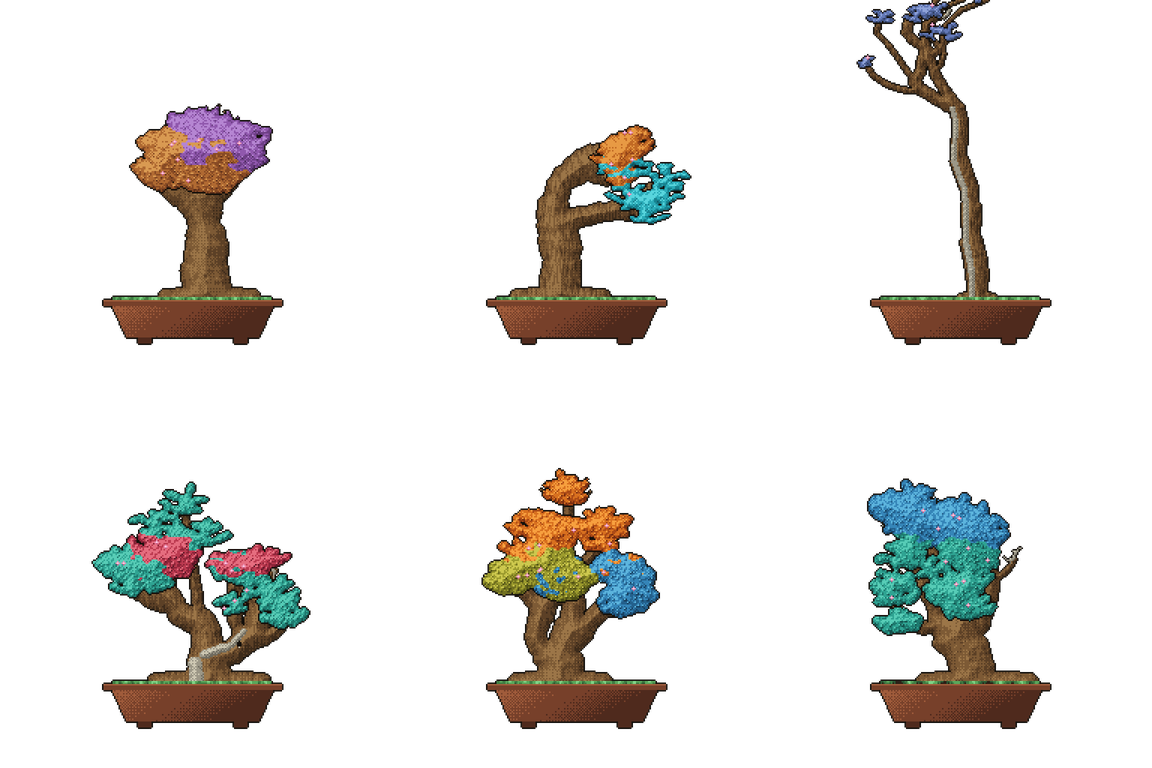
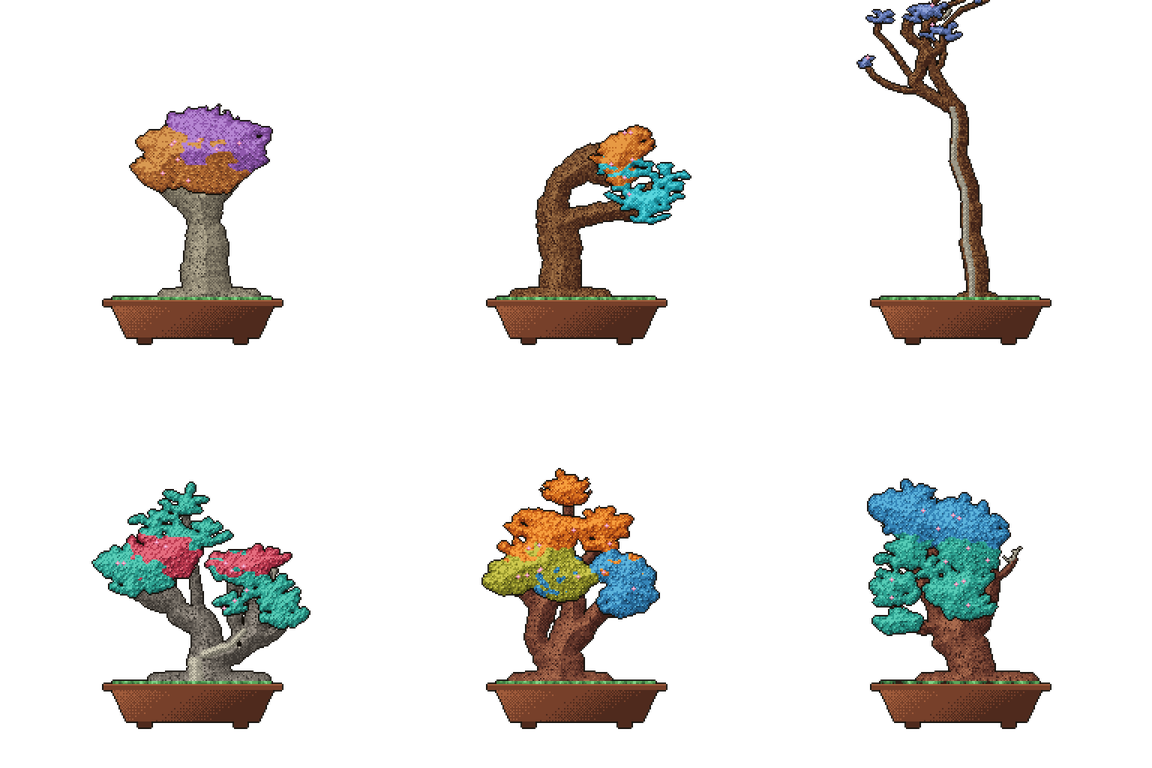
feat: species bark colors + domain-warped ridged bark texture
Trunk color now belongs to the species: red-brown plated pine, smooth
silver-gray maple, mahogany cherry, fibrous gray juniper, pale tan elm
(palette slots 2-5 are patched per species at build time).

Bark texture upgraded from plain striation noise to domain-warped
ridged noise — (1-|n|)^2 over warped coordinates — with dark fissures
carved along ridge crests, kept clear of the keyline. Rough species
(pine, juniper) ridge and crack harder than smooth ones (elm, maple).

Claude-Session: https://claude.ai/code/session_016wzfiLTiSENdkKTfsVTFZx

diff --git a/src/palette.ts b/src/palette.ts
@@ -87,6 +87,15 @@ export const SPECIES: Record<SpeciesId, Species> = {
   elm: { padFlatten: 1.2, padThreshold: 0.52, stamp: [[0, 0], [0, 1]], barkAmp: 0.14, droop: 0.04 },
 };
 
+/** Bark color ramps (palette slots 2-5) per species, dark -> light. */
+const BARK_RAMPS: Record<SpeciesId, [string, string, string, string]> = {
+  pine: ['#402318', '#5f3a24', '#7f5433', '#9f7146'],    // red-brown plates
+  maple: ['#3f3a35', '#5c564f', '#7b746b', '#9c948a'],   // smooth silver-gray
+  cherry: ['#3f201a', '#61352a', '#844d39', '#a86a4d'],  // mahogany
+  juniper: ['#38352f', '#555148', '#736e62', '#928d7f'], // fibrous gray
+  elm: ['#4a443a', '#6b6455', '#8e8672', '#b1a890'],     // pale tan-gray
+};
+
 const BASE: Record<number, string> = {
   1: '#14100b',
   2: '#3d2b1a', 3: '#5c4026', 4: '#7d5a35', 5: '#9c7648',
@@ -102,10 +111,11 @@ function hex(rgb: Uint8Array, index: number, color: string): void {
   rgb[index * 3 + 2] = parseInt(color.slice(5, 7), 16);
 }
 
-/** Build the 32-entry RGB palette with one leaf ramp per epoch. */
-export function buildPalette(epochLangs: [string, string, string]): Uint8Array {
+/** Build the 32-entry RGB palette: species bark + one leaf ramp per epoch. */
+export function buildPalette(epochLangs: [string, string, string], species: SpeciesId = 'maple'): Uint8Array {
   const rgb = new Uint8Array(PALETTE_SIZE * 3);
   for (const [idx, color] of Object.entries(BASE)) hex(rgb, Number(idx), color);
+  BARK_RAMPS[species].forEach((color, i) => hex(rgb, TRUNK[i], color));
   for (let e = 0; e < 3; e++) {
     const ramp = rampFor(epochLangs[e]);
     for (let i = 0; i < 4; i++) hex(rgb, LEAF_E[e][i], ramp[i]);

diff --git a/dist/src/palette.js b/dist/src/palette.js
@@ -69,6 +69,14 @@ exports.SPECIES = {
     juniper: { padFlatten: 1.35, padThreshold: 0.6, stamp: [[0, 0]], barkAmp: 0.28, droop: 0.05 },
     elm: { padFlatten: 1.2, padThreshold: 0.52, stamp: [[0, 0], [0, 1]], barkAmp: 0.14, droop: 0.04 },
 };
+/** Bark color ramps (palette slots 2-5) per species, dark -> light. */
+const BARK_RAMPS = {
+    pine: ['#402318', '#5f3a24', '#7f5433', '#9f7146'], // red-brown plates
+    maple: ['#3f3a35', '#5c564f', '#7b746b', '#9c948a'], // smooth silver-gray
+    cherry: ['#3f201a', '#61352a', '#844d39', '#a86a4d'], // mahogany
+    juniper: ['#38352f', '#555148', '#736e62', '#928d7f'], // fibrous gray
+    elm: ['#4a443a', '#6b6455', '#8e8672', '#b1a890'], // pale tan-gray
+};
 const BASE = {
     1: '#14100b',
     2: '#3d2b1a', 3: '#5c4026', 4: '#7d5a35', 5: '#9c7648',
@@ -82,11 +90,12 @@ function hex(rgb, index, color) {
     rgb[index * 3 + 1] = parseInt(color.slice(3, 5), 16);
     rgb[index * 3 + 2] = parseInt(color.slice(5, 7), 16);
 }
-/** Build the 32-entry RGB palette with one leaf ramp per epoch. */
-function buildPalette(epochLangs) {
+/** Build the 32-entry RGB palette: species bark + one leaf ramp per epoch. */
+function buildPalette(epochLangs, species = 'maple') {
     const rgb = new Uint8Array(exports.PALETTE_SIZE * 3);
     for (const [idx, color] of Object.entries(BASE))
         hex(rgb, Number(idx), color);
+    BARK_RAMPS[species].forEach((color, i) => hex(rgb, exports.TRUNK[i], color));
     for (let e = 0; e < 3; e++) {
         const ramp = rampFor(epochLangs[e]);
         for (let i = 0; i < 4; i++)

diff --git a/src/shade.ts b/src/shade.ts
@@ -1,4 +1,4 @@
-import { Noise2 } from './noise';
+import { Noise2, BarkFn } from './noise';
 
 /** 4x4 Bayer matrix, normalized to -0.5..~0.5 for ordered dithering. */
 const BAYER4 = [
@@ -75,11 +75,13 @@ export interface ShadeOpts {
   depthMix?: number;
   /** How fast depth saturates: lower = the gradient reaches deeper (wide trunks). */
   depthScale?: number;
-  /** Extra per-pixel tone noise (bark/leaf texture). */
+  /** Extra per-pixel tone noise (leaf texture). */
   noise?: Noise2;
   noiseAmp?: number;
   noiseScaleX?: number;
   noiseScaleY?: number;
+  /** Bark texture: warped ridged noise with dark fissures along ridge crests. */
+  bark?: { fn: BarkFn; amp: number; scaleX: number; scaleY: number; crack: number };
 }
 
 /**
@@ -114,6 +116,12 @@ export function makeShader(
     let t = (1 - depthMix) * lambert + depthMix * depth;
     if (opts.noise && nAmp > 0) {
       t += opts.noise(x * (opts.noiseScaleX ?? 0.3), y * (opts.noiseScaleY ?? 0.3)) * nAmp;
+    }
+    if (opts.bark) {
+      const b = opts.bark.fn(x, y, opts.bark.scaleX, opts.bark.scaleY);
+      // deep fissures along ridge crests, but not right at the keyline edge
+      if (b > opts.bark.crack && dist[i] > 1.6) return 0;
+      t += (b - 0.45) * opts.bark.amp;
     }
     const v = t * (rampLen - 1) + bayer(x, y) * 0.9;
     return Math.max(0, Math.min(rampLen - 1, Math.round(v)));

diff --git a/dist/src/noise.js b/dist/src/noise.js
@@ -1,5 +1,6 @@
 "use strict";
 Object.defineProperty(exports, "__esModule", { value: true });
+exports.makeBark = makeBark;
 exports.makeSimplex = makeSimplex;
 const GRAD = [
     [1, 1], [-1, 1], [1, -1], [-1, -1],
@@ -8,6 +9,21 @@ const GRAD = [
 ];
 const F2 = 0.5 * (Math.sqrt(3) - 1);
 const G2 = (3 - Math.sqrt(3)) / 6;
+/**
+ * Bark texture: domain-warped ridged noise — the classic recipe for wood.
+ * A low-frequency warp bends the ridge lines organically; ridging
+ * (1 - |n|)^2 turns smooth noise into sharp bark plates and fissures.
+ * Returns 0..1 (high = ridge crest).
+ */
+function makeBark(noise) {
+    return (x, y, sx, sy) => {
+        const wx = noise(x * sx * 0.45 + 11.3, y * sy * 0.45 - 7.1);
+        const wy = noise(x * sx * 0.45 - 3.7, y * sy * 0.45 + 9.2);
+        const n = noise(x * sx + wx * 2.2, y * sy + wy * 2.2);
+        const ridge = 1 - Math.abs(n);
+        return ridge * ridge;
+    };
+}
 /** 2D simplex noise (Gustavson) with a permutation table shuffled by the seeded PRNG. Output in [-1, 1]. */
 function makeSimplex(rng) {
     const p = new Uint8Array(256);

diff --git a/src/noise.ts b/src/noise.ts
@@ -11,6 +11,24 @@ const G2 = (3 - Math.sqrt(3)) / 6;
 
 export type Noise2 = (x: number, y: number) => number;
 
+export type BarkFn = (x: number, y: number, sx: number, sy: number) => number;
+
+/**
+ * Bark texture: domain-warped ridged noise — the classic recipe for wood.
+ * A low-frequency warp bends the ridge lines organically; ridging
+ * (1 - |n|)^2 turns smooth noise into sharp bark plates and fissures.
+ * Returns 0..1 (high = ridge crest).
+ */
+export function makeBark(noise: Noise2): BarkFn {
+  return (x, y, sx, sy) => {
+    const wx = noise(x * sx * 0.45 + 11.3, y * sy * 0.45 - 7.1);
+    const wy = noise(x * sx * 0.45 - 3.7, y * sy * 0.45 + 9.2);
+    const n = noise(x * sx + wx * 2.2, y * sy + wy * 2.2);
+    const ridge = 1 - Math.abs(n);
+    return ridge * ridge;
+  };
+}
+
 /** 2D simplex noise (Gustavson) with a permutation table shuffled by the seeded PRNG. Output in [-1, 1]. */
 export function makeSimplex(rng: Rng): Noise2 {
   const p = new Uint8Array(256);

diff --git a/dist/src/render.js b/dist/src/render.js
@@ -76,7 +76,14 @@ function renderFrame(dna, skel, opts = {}) {
         (0, raster_1.fillCapsule)(aliveMask, skeleton_1.W, skeleton_1.H, skel.baseX, skel.groundY - 4, skel.baseX + side * spread, skel.groundY - 2, dna.baseRadius * 0.36, 1);
     }
     const shadeAlive = (0, shade_1.makeShader)(aliveMask, skeleton_1.W, skeleton_1.H, palette_1.TRUNK.length, {
-        depthMix: 0.38, depthScale: 0.13, noise, noiseAmp: species.barkAmp, noiseScaleX: 0.55, noiseScaleY: 0.09,
+        depthMix: 0.38, depthScale: 0.13,
+        bark: {
+            fn: (0, noise_1.makeBark)(noise),
+            amp: species.barkAmp * 2.4,
+            scaleX: 0.2,
+            scaleY: 0.07,
+            crack: 0.93 - species.barkAmp * 0.4, // rough species crack more
+        },
     });
     const shadeDead = (0, shade_1.makeShader)(deadMask, skeleton_1.W, skeleton_1.H, palette_1.DEAD.length, { depthMix: 0.35 });
     for (let y = 0; y < skeleton_1.H; y++) {

diff --git a/src/render.ts b/src/render.ts
@@ -1,6 +1,6 @@
 import { BonsaiDNA } from './types';
 import { makeRng, clamp } from './seed';
-import { makeSimplex, Noise2 } from './noise';
+import { makeSimplex, makeBark, Noise2 } from './noise';
 import { Skeleton, W, H } from './skeleton';
 import {
   Frame, fillCapsule,
@@ -98,7 +98,14 @@ export function renderFrame(dna: BonsaiDNA, skel: Skeleton, opts: RenderOpts = {
   }
 
   const shadeAlive = makeShader(aliveMask, W, H, TRUNK.length, {
-    depthMix: 0.38, depthScale: 0.13, noise, noiseAmp: species.barkAmp, noiseScaleX: 0.55, noiseScaleY: 0.09,
+    depthMix: 0.38, depthScale: 0.13,
+    bark: {
+      fn: makeBark(noise),
+      amp: species.barkAmp * 2.4,
+      scaleX: 0.2,
+      scaleY: 0.07,
+      crack: 0.93 - species.barkAmp * 0.4, // rough species crack more
+    },
   });
   const shadeDead = makeShader(deadMask, W, H, DEAD.length, { depthMix: 0.35 });
   for (let y = 0; y < H; y++) {

diff --git a/dist/src/shade.js b/dist/src/shade.js
@@ -106,6 +106,13 @@ function makeShader(mask, w, h, rampLen, opts = {}) {
         if (opts.noise && nAmp > 0) {
             t += opts.noise(x * (opts.noiseScaleX ?? 0.3), y * (opts.noiseScaleY ?? 0.3)) * nAmp;
         }
+        if (opts.bark) {
+            const b = opts.bark.fn(x, y, opts.bark.scaleX, opts.bark.scaleY);
+            // deep fissures along ridge crests, but not right at the keyline edge
+            if (b > opts.bark.crack && dist[i] > 1.6)
+                return 0;
+            t += (b - 0.45) * opts.bark.amp;
+        }
         const v = t * (rampLen - 1) + bayer(x, y) * 0.9;
         return Math.max(0, Math.min(rampLen - 1, Math.round(v)));
     };

diff --git a/dist/src/index.js b/dist/src/index.js
@@ -26,7 +26,7 @@ function generate(metrics, opts = {}) {
     const dna = (0, dna_1.deriveDna)(metrics, rng);
     const skel = (0, skeleton_1.buildSkeleton)(dna, rng);
     (0, thickness_1.applyThickness)(skel, dna);
-    const palette = (0, palette_1.buildPalette)(dna.palettes);
+    const palette = (0, palette_1.buildPalette)(dna.palettes, dna.species);
     const still = (0, render_1.renderFrame)(dna, skel, { growthT: 1, windPhase: null });
     const wind = (0, animate_1.windFrames)(dna, skel, opts.windFrameCount ?? 24);
     const growth = (0, animate_1.growthFrames)(dna, skel, opts.growthFrameCount ?? 44);

diff --git a/src/index.ts b/src/index.ts
@@ -41,7 +41,7 @@ export function generate(metrics: Metrics, opts: GenerateOptions = {}): BonsaiOu
   const dna = deriveDna(metrics, rng);
   const skel: Skeleton = buildSkeleton(dna, rng);
   applyThickness(skel, dna);
-  const palette = buildPalette(dna.palettes);
+  const palette = buildPalette(dna.palettes, dna.species);
 
   const still = renderFrame(dna, skel, { growthT: 1, windPhase: null });
   const wind = windFrames(dna, skel, opts.windFrameCount ?? 24);
